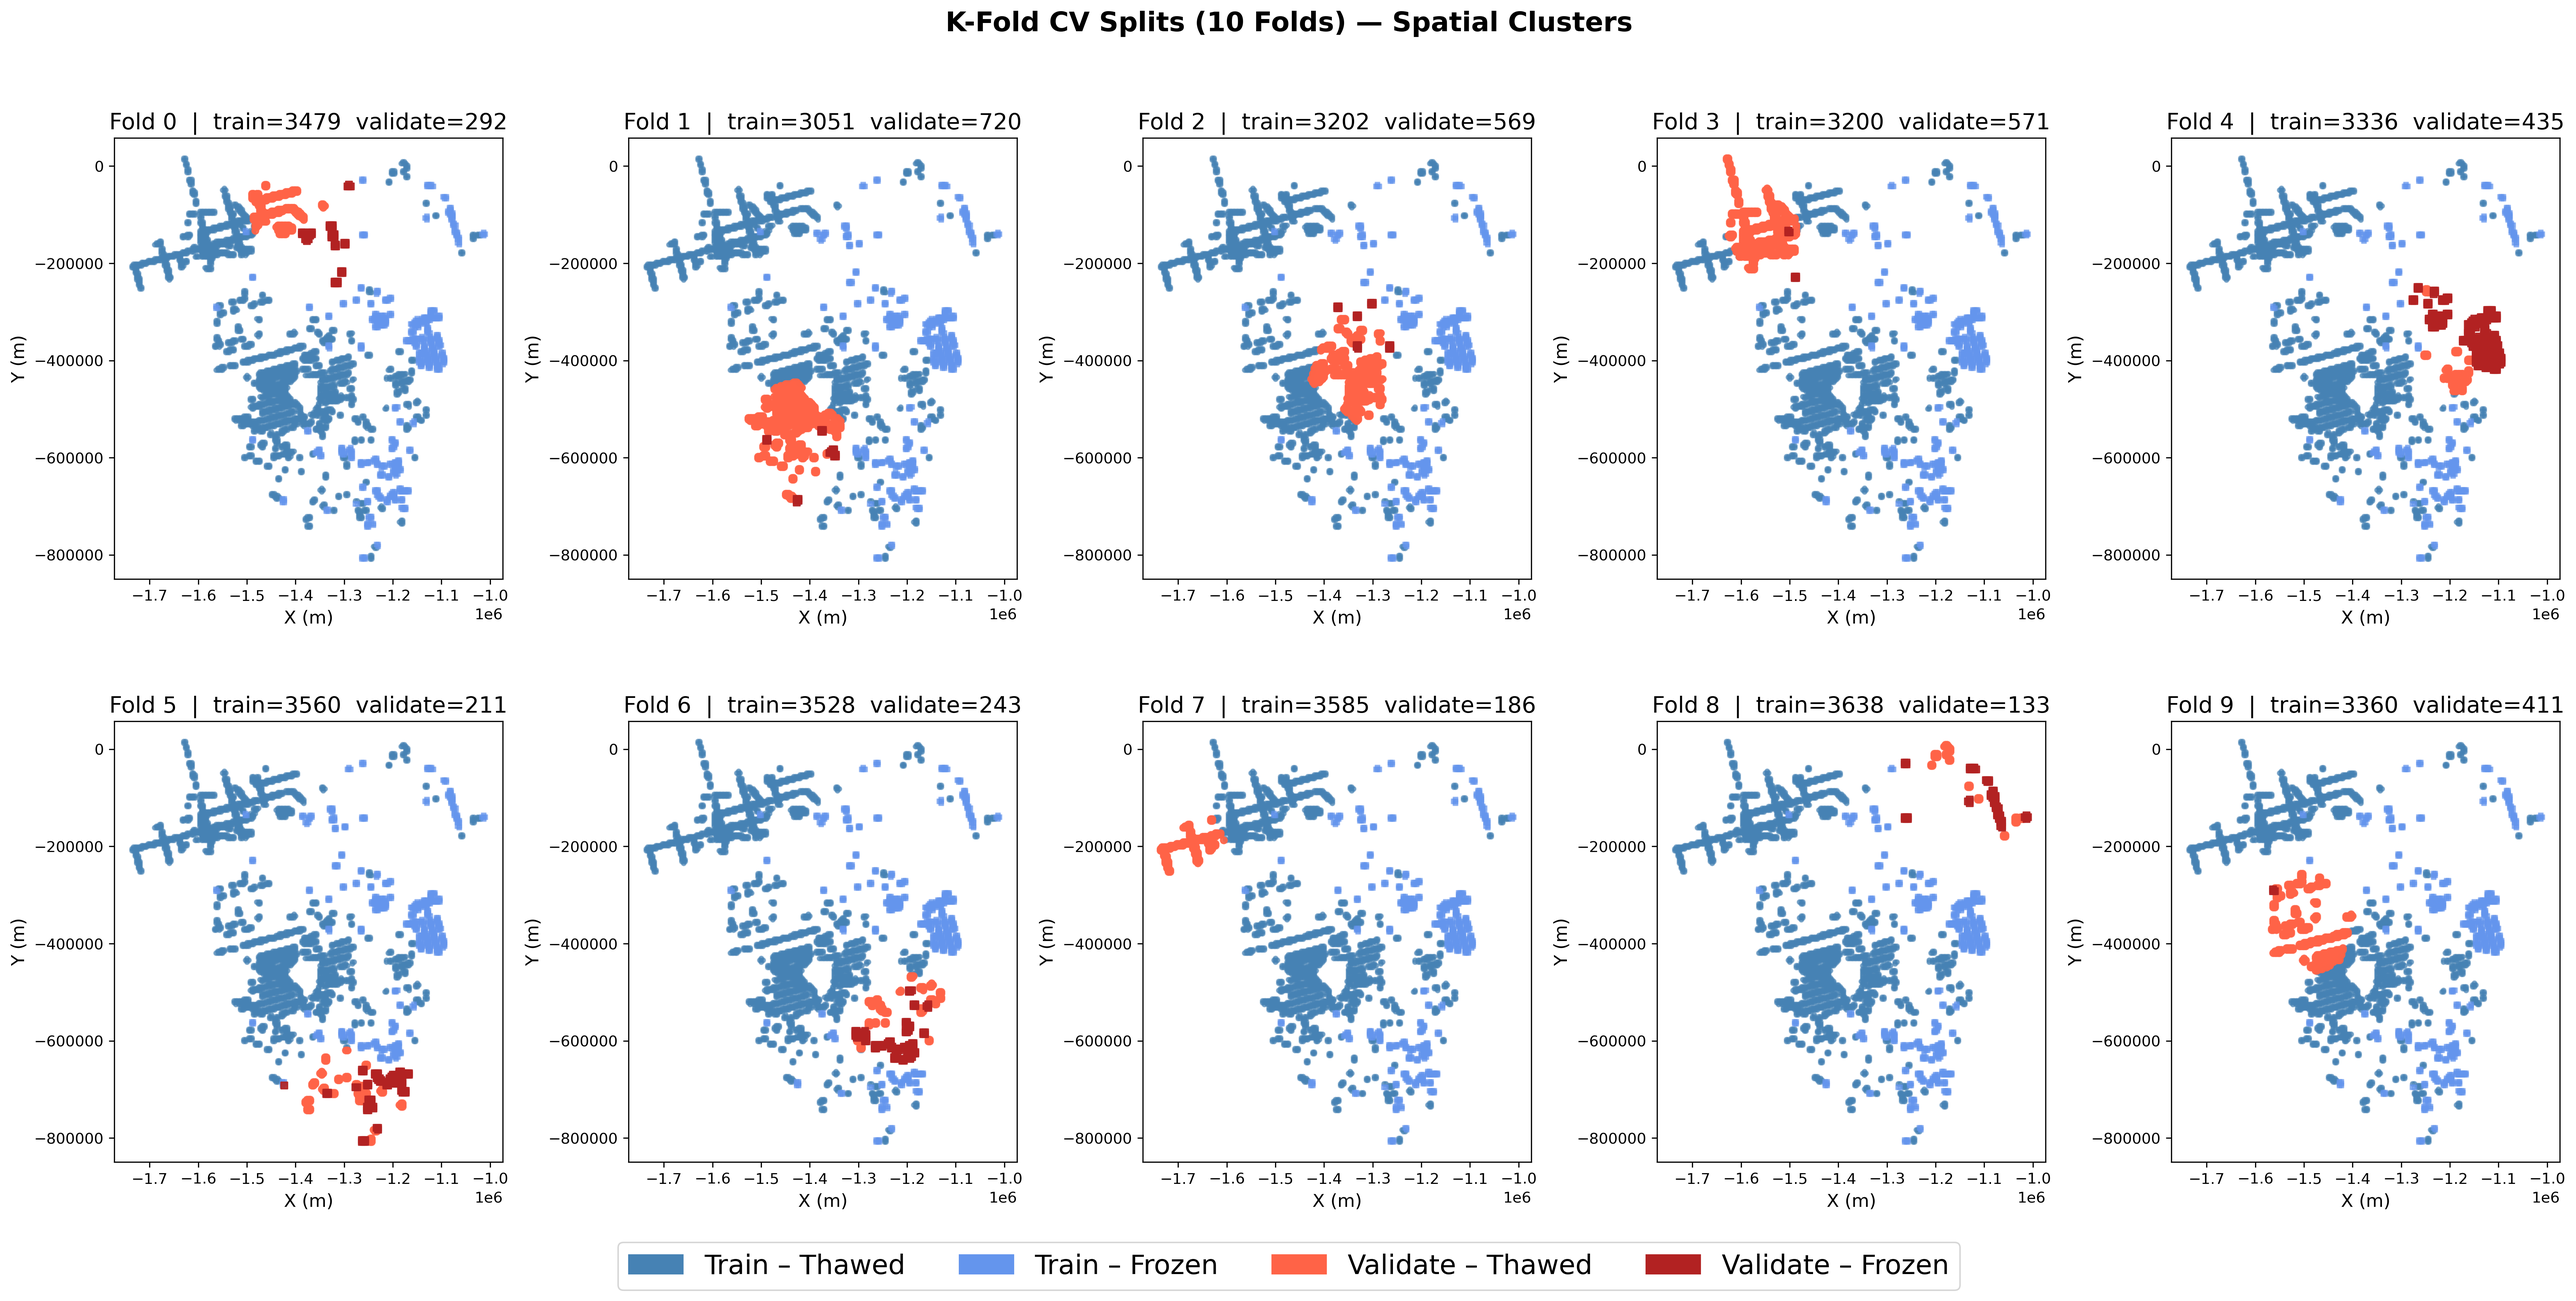
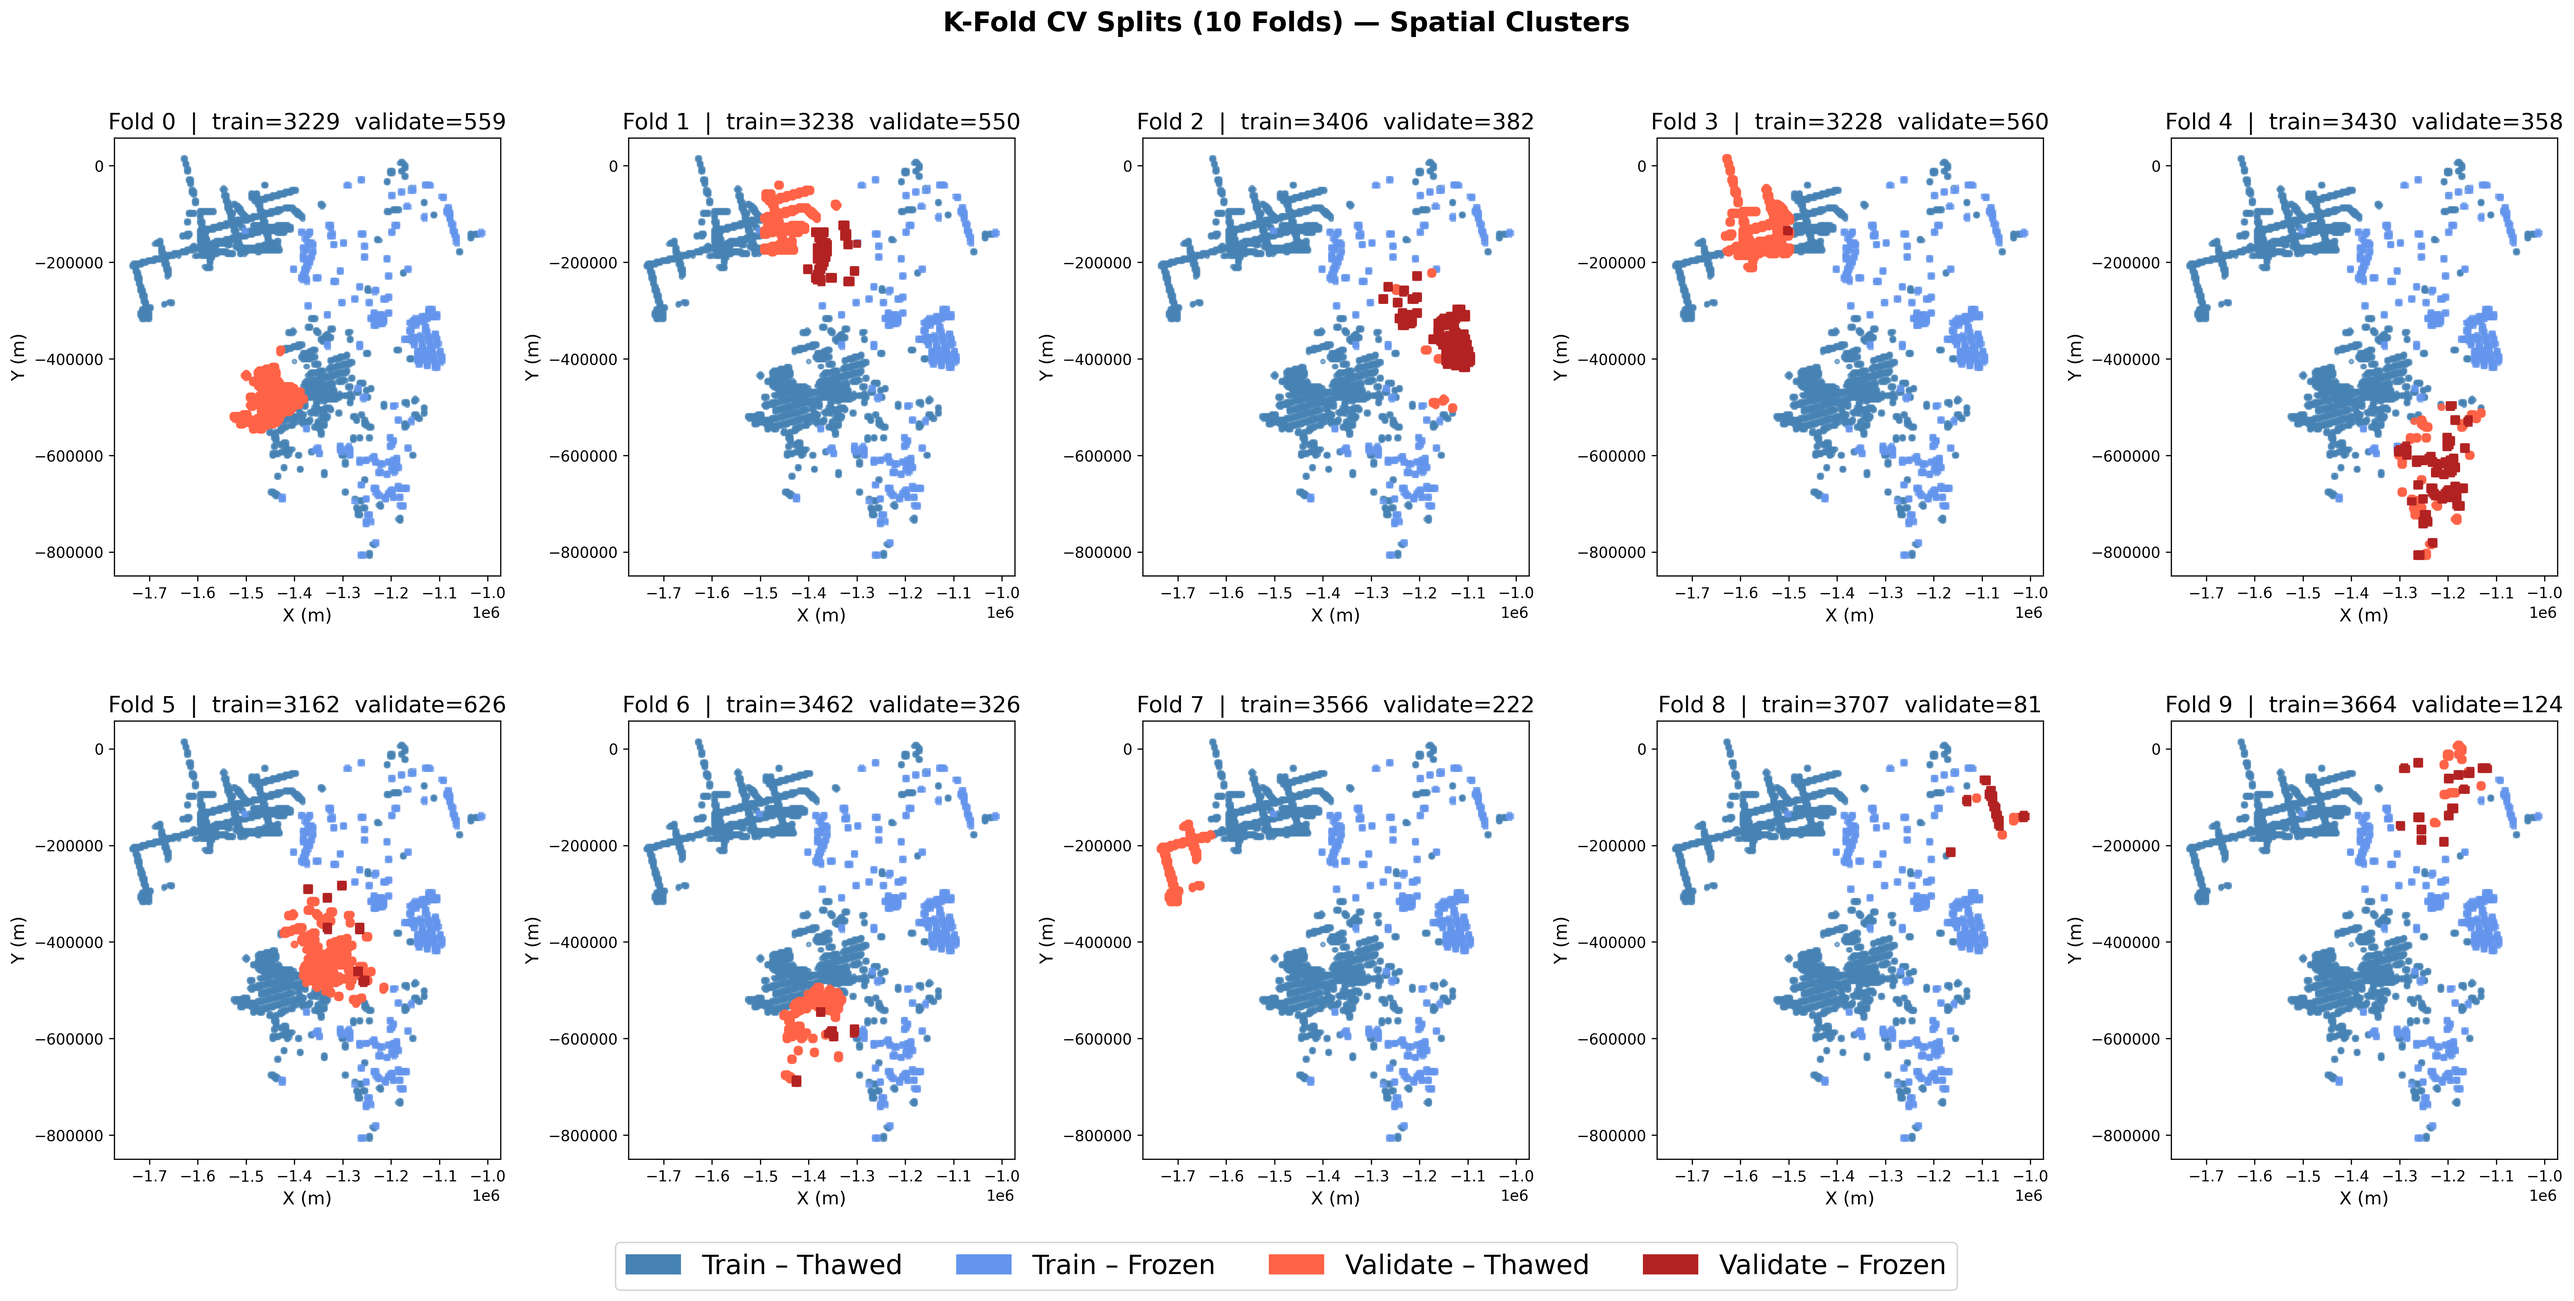
move train-validate-test data to a separate storage space, in both local and cluster space; ensure the scripts take in that environmental variable

diff --git a/runDataSetup.py b/runDataSetup.py
@@ -14,9 +14,12 @@ validation_ratio = 0
 test_ratio       = 0.1
 n_folds          = 10
 
-data_path  = os.getenv('DATA_PATH')
-param_path = os.getenv('PARAM_PATH')
-folder = data_path
+raw_data_path  = os.getenv('RAW_DATA_PATH')
+param_path     = os.getenv('PARAM_PATH')
+output_path    = os.getenv('INFERENCE_READY_DATA_PATH')
+
+save_folder = output_path
+folder      = raw_data_path
 # ------------------------------------------------- LOAD SIMULATION DATA -------------------------------------------------
 # get the DATA_PATH from the environment variable
 Eb_filename           = 'trainingAll4D_Eb_sim_standardized.mat'
@@ -70,7 +73,6 @@ print("Shape of GHF_train:", GHF_train.shape)
 print("Shape of GHF_validation:", GHF_validation.shape)
 print("Shape of GHF_test:", GHF_test.shape)
 
-save_folder = "data/train-validate-test/"
 os.makedirs(save_folder, exist_ok=True)
 np.savez(save_folder + "train_data.npz", Eb_train=Eb_train, Ns_train=Ns_train, GHF_train=GHF_train)
 np.savez(save_folder + "validation_data.npz", Eb_validation=Eb_validation, Ns_validation=Ns_validation, GHF_validation=GHF_validation)

diff --git a/src/runValidation.py b/src/runValidation.py
@@ -31,12 +31,14 @@ lambda2       = 5  # prior covariance weight 2; probably the learned variance? n
 
 err_prior_eps = 1 # error margin in prior predictive check
 
-data_path       = os.getenv('DATA_PATH')
-param_path      = os.getenv('PARAM_PATH')
+raw_data_path       = os.getenv('RAW_DATA_PATH')
+param_path          = os.getenv('PARAM_PATH')
+output_path         = os.getenv('INFERENCE_READY_DATA_PATH')
 mcmc_md_name    = f"mcmc_run_beta_{beta_posterior}_kfold_{kfold_num}.pt"
-split_data_path = "../data/train-validate-test/" # split data set
 fig_save_path    = "../figs/parameter-tuning/"
-folder = data_path
+
+split_data_path = output_path
+folder          = raw_data_path
 # ------------------------------------------------- LOAD SIMULATION DATA -------------------------------------------------
 # get the DATA_PATH from the environment variable
 XY_train_filename    = "train_data.npz"
